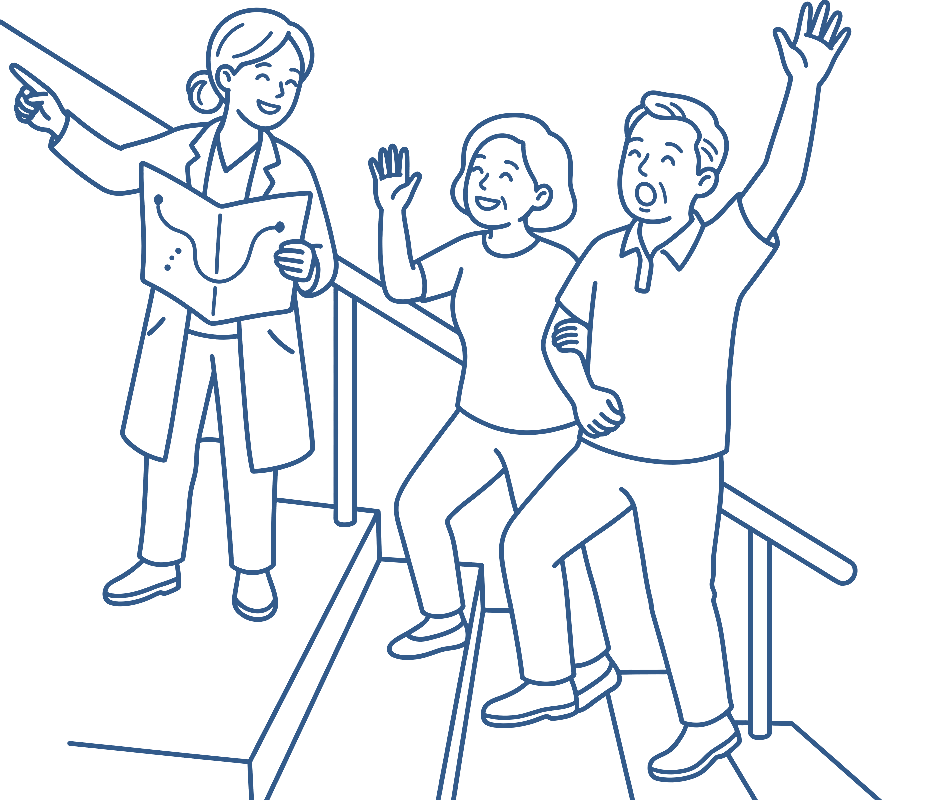
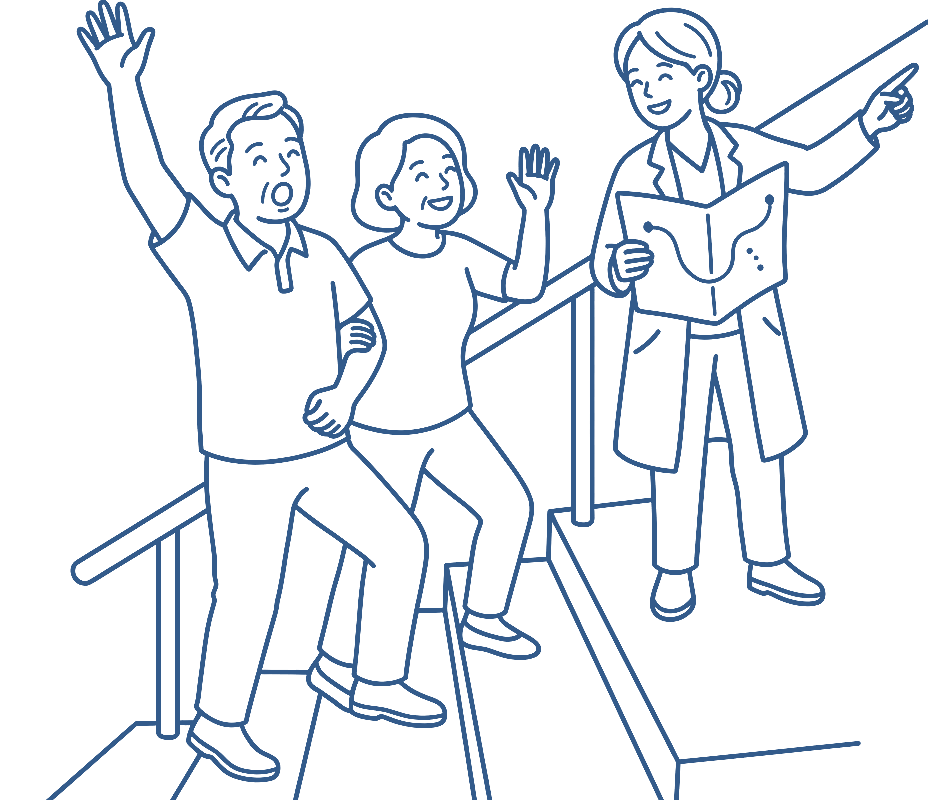
植牙線稿手機段定案：92%／0／+48／.121／不翻（七科第一個不翻的）；十二個寬度驗過 0 差

Changed region(s): [[0.0, 0.0, 1.0, 1.0], [0.9062, 0.9688, 0.9375, 1.0], [0.0625, 0.9688, 0.0938, 1.0]]

diff --git a/preview/topic-lineart-prosth/index.html b/preview/topic-lineart-prosth/index.html
@@ -4825,7 +4825,11 @@ body[data-topic] #topics { padding-top: 1rem; }
 }
 [data-topic="ortho"] .tp-intro > * { position: relative; z-index: 1; }
 
-/* 植牙・假牙重建（2026-08-25 —— **提案中，兩段都還是暫定值**）
+/* 植牙・假牙重建（2026-08-25 —— **手機那一段定案，≥721 那一段還是暫定**，同兒牙／矯正）
+   ⚠ 手機定案：**92% ／ right 0 ／ 出血 +48 ／ 濃度 .121 ／ 不翻**，使用者在自己手機上逐格挑的。
+   ⚠⚠ **這一科沒有翻轉**（七科裡第一個）—— 前五科都把人翻成朝版心裡面，
+     但這一張有階梯：不翻的時候「往右上走」和閱讀方向一致，翻過來反而是走回去。
+     提案頁那一輪特地加了「翻／不翻」的切換讓使用者在手機上比，他選了不翻。
    ⚠⚠ 這一科的柔墨 AA 上限是 **.097 ＝ 六科裡最緊的一支**（一般牙科 .100／牙周 .115／
      顯微根管 .107／兒牙 .152／矯正 .120），成因是 #335b8b 是六支套色裡最深的。
      手機那一段大概只能給到 .09~.10，先擺 .097 等使用者在自己手機上挑。
@@ -4837,8 +4841,9 @@ body[data-topic] #topics { padding-top: 1rem; }
 [data-topic="prosth"] .tp-intro { position: relative; }
 [data-topic="prosth"] .tp-intro::before {
   content: ""; position: absolute; right: var(--la-right, 0px); bottom: 0;
-  width: min(var(--la-pct, 76%), var(--la-w, 360px)); aspect-ratio: 928 / 800;
-  background-image: var(--la-img, url("../../assets/lineart-prosth.png")); background-repeat: no-repeat; background-size: contain; background-position: calc(50% + var(--la-bleed, 0px)) center;
+  width: min(var(--la-pct, 92%), var(--la-w, 360px)); aspect-ratio: 928 / 800;
+  background: url("../../assets/lineart-prosth.png") no-repeat; background-size: contain;
+  background-position: calc(50% + 48px) center;
   opacity: var(--la-op, .121); pointer-events: none; z-index: 0;
 }
 @media (min-width: 721px) {
@@ -7296,7 +7301,6 @@ body[data-topic] #topics { padding-top: 1rem; }
   <div class="pvrow" id="pvright"><b>往右</b></div>
   <div class="pvrow"><b>出血</b><button data-k="b" data-v="0">0</button><button data-k="b" data-v="16">+16</button><button data-k="b" data-v="32">+32</button><button data-k="b" data-v="48">+48</button><button data-k="b" data-v="64">+64</button></div>
   <div class="pvrow" id="pvop"><b>濃度</b></div>
-  <div class="pvrow"><b>翻轉</b><button data-k="f" data-v="1">翻（現在）</button><button data-k="f" data-v="0">不翻</button></div>
   <div class="pvout" id="pvout">量測中…</div>
 </div>
 <button class="pvmin" id="pvmin">收起</button>
@@ -7304,11 +7308,11 @@ body[data-topic] #topics { padding-top: 1rem; }
 (function(){
   var root=document.documentElement, bar=document.getElementById('pvbar'), out=document.getElementById('pvout');
   var wide=matchMedia('(min-width: 721px)');
-  var DEF={w:{narrow:76,wide:330},
+  var DEF={w:{narrow:92,wide:330},
            op:{narrow:.121,wide:.15}, r:{narrow:0,wide:0},
            b:{narrow:16,wide:16}, f:{narrow:1,wide:1}};
   var st={w:null,op:null,r:null,b:null,f:null,off:false};
-  var IMG={flip:'url("../../assets/lineart-prosth.png")',noflip:'url("noflip.png")'}, HASF=true;
+  var IMG={flip:'url("")',noflip:'url("noflip.png")'}, HASF=false;
   var qs=new URLSearchParams(location.search);
   ['w','op','r','b','f'].forEach(function(k){var v=qs.get(k); if(v&&/^-?[a-z0-9.]+$/.test(v)) st[k]=parseFloat(v);});
 

diff --git a/topics/endo/index.html b/topics/endo/index.html
@@ -4825,7 +4825,11 @@ body[data-topic] #topics { padding-top: 1rem; }
 }
 [data-topic="ortho"] .tp-intro > * { position: relative; z-index: 1; }
 
-/* 植牙・假牙重建（2026-08-25 —— **提案中，兩段都還是暫定值**）
+/* 植牙・假牙重建（2026-08-25 —— **手機那一段定案，≥721 那一段還是暫定**，同兒牙／矯正）
+   ⚠ 手機定案：**92% ／ right 0 ／ 出血 +48 ／ 濃度 .121 ／ 不翻**，使用者在自己手機上逐格挑的。
+   ⚠⚠ **這一科沒有翻轉**（七科裡第一個）—— 前五科都把人翻成朝版心裡面，
+     但這一張有階梯：不翻的時候「往右上走」和閱讀方向一致，翻過來反而是走回去。
+     提案頁那一輪特地加了「翻／不翻」的切換讓使用者在手機上比，他選了不翻。
    ⚠⚠ 這一科的柔墨 AA 上限是 **.097 ＝ 六科裡最緊的一支**（一般牙科 .100／牙周 .115／
      顯微根管 .107／兒牙 .152／矯正 .120），成因是 #335b8b 是六支套色裡最深的。
      手機那一段大概只能給到 .09~.10，先擺 .097 等使用者在自己手機上挑。
@@ -4837,8 +4841,9 @@ body[data-topic] #topics { padding-top: 1rem; }
 [data-topic="prosth"] .tp-intro { position: relative; }
 [data-topic="prosth"] .tp-intro::before {
   content: ""; position: absolute; right: 0px; bottom: 0;
-  width: min(76%, 360px); aspect-ratio: 928 / 800;
-  background: url("../../assets/lineart-prosth.png") center / contain no-repeat;
+  width: min(92%, 360px); aspect-ratio: 928 / 800;
+  background: url("../../assets/lineart-prosth.png") no-repeat; background-size: contain;
+  background-position: calc(50% + 48px) center;
   opacity: .121; pointer-events: none; z-index: 0;
 }
 @media (min-width: 721px) {

diff --git a/topics/general/index.html b/topics/general/index.html
@@ -4825,7 +4825,11 @@ body[data-topic] #topics { padding-top: 1rem; }
 }
 [data-topic="ortho"] .tp-intro > * { position: relative; z-index: 1; }
 
-/* 植牙・假牙重建（2026-08-25 —— **提案中，兩段都還是暫定值**）
+/* 植牙・假牙重建（2026-08-25 —— **手機那一段定案，≥721 那一段還是暫定**，同兒牙／矯正）
+   ⚠ 手機定案：**92% ／ right 0 ／ 出血 +48 ／ 濃度 .121 ／ 不翻**，使用者在自己手機上逐格挑的。
+   ⚠⚠ **這一科沒有翻轉**（七科裡第一個）—— 前五科都把人翻成朝版心裡面，
+     但這一張有階梯：不翻的時候「往右上走」和閱讀方向一致，翻過來反而是走回去。
+     提案頁那一輪特地加了「翻／不翻」的切換讓使用者在手機上比，他選了不翻。
    ⚠⚠ 這一科的柔墨 AA 上限是 **.097 ＝ 六科裡最緊的一支**（一般牙科 .100／牙周 .115／
      顯微根管 .107／兒牙 .152／矯正 .120），成因是 #335b8b 是六支套色裡最深的。
      手機那一段大概只能給到 .09~.10，先擺 .097 等使用者在自己手機上挑。
@@ -4837,8 +4841,9 @@ body[data-topic] #topics { padding-top: 1rem; }
 [data-topic="prosth"] .tp-intro { position: relative; }
 [data-topic="prosth"] .tp-intro::before {
   content: ""; position: absolute; right: 0px; bottom: 0;
-  width: min(76%, 360px); aspect-ratio: 928 / 800;
-  background: url("../../assets/lineart-prosth.png") center / contain no-repeat;
+  width: min(92%, 360px); aspect-ratio: 928 / 800;
+  background: url("../../assets/lineart-prosth.png") no-repeat; background-size: contain;
+  background-position: calc(50% + 48px) center;
   opacity: .121; pointer-events: none; z-index: 0;
 }
 @media (min-width: 721px) {

diff --git a/topics/kids/index.html b/topics/kids/index.html
@@ -4825,7 +4825,11 @@ body[data-topic] #topics { padding-top: 1rem; }
 }
 [data-topic="ortho"] .tp-intro > * { position: relative; z-index: 1; }
 
-/* 植牙・假牙重建（2026-08-25 —— **提案中，兩段都還是暫定值**）
+/* 植牙・假牙重建（2026-08-25 —— **手機那一段定案，≥721 那一段還是暫定**，同兒牙／矯正）
+   ⚠ 手機定案：**92% ／ right 0 ／ 出血 +48 ／ 濃度 .121 ／ 不翻**，使用者在自己手機上逐格挑的。
+   ⚠⚠ **這一科沒有翻轉**（七科裡第一個）—— 前五科都把人翻成朝版心裡面，
+     但這一張有階梯：不翻的時候「往右上走」和閱讀方向一致，翻過來反而是走回去。
+     提案頁那一輪特地加了「翻／不翻」的切換讓使用者在手機上比，他選了不翻。
    ⚠⚠ 這一科的柔墨 AA 上限是 **.097 ＝ 六科裡最緊的一支**（一般牙科 .100／牙周 .115／
      顯微根管 .107／兒牙 .152／矯正 .120），成因是 #335b8b 是六支套色裡最深的。
      手機那一段大概只能給到 .09~.10，先擺 .097 等使用者在自己手機上挑。
@@ -4837,8 +4841,9 @@ body[data-topic] #topics { padding-top: 1rem; }
 [data-topic="prosth"] .tp-intro { position: relative; }
 [data-topic="prosth"] .tp-intro::before {
   content: ""; position: absolute; right: 0px; bottom: 0;
-  width: min(76%, 360px); aspect-ratio: 928 / 800;
-  background: url("../../assets/lineart-prosth.png") center / contain no-repeat;
+  width: min(92%, 360px); aspect-ratio: 928 / 800;
+  background: url("../../assets/lineart-prosth.png") no-repeat; background-size: contain;
+  background-position: calc(50% + 48px) center;
   opacity: .121; pointer-events: none; z-index: 0;
 }
 @media (min-width: 721px) {

diff --git a/topics/ortho/index.html b/topics/ortho/index.html
@@ -4825,7 +4825,11 @@ body[data-topic] #topics { padding-top: 1rem; }
 }
 [data-topic="ortho"] .tp-intro > * { position: relative; z-index: 1; }
 
-/* 植牙・假牙重建（2026-08-25 —— **提案中，兩段都還是暫定值**）
+/* 植牙・假牙重建（2026-08-25 —— **手機那一段定案，≥721 那一段還是暫定**，同兒牙／矯正）
+   ⚠ 手機定案：**92% ／ right 0 ／ 出血 +48 ／ 濃度 .121 ／ 不翻**，使用者在自己手機上逐格挑的。
+   ⚠⚠ **這一科沒有翻轉**（七科裡第一個）—— 前五科都把人翻成朝版心裡面，
+     但這一張有階梯：不翻的時候「往右上走」和閱讀方向一致，翻過來反而是走回去。
+     提案頁那一輪特地加了「翻／不翻」的切換讓使用者在手機上比，他選了不翻。
    ⚠⚠ 這一科的柔墨 AA 上限是 **.097 ＝ 六科裡最緊的一支**（一般牙科 .100／牙周 .115／
      顯微根管 .107／兒牙 .152／矯正 .120），成因是 #335b8b 是六支套色裡最深的。
      手機那一段大概只能給到 .09~.10，先擺 .097 等使用者在自己手機上挑。
@@ -4837,8 +4841,9 @@ body[data-topic] #topics { padding-top: 1rem; }
 [data-topic="prosth"] .tp-intro { position: relative; }
 [data-topic="prosth"] .tp-intro::before {
   content: ""; position: absolute; right: 0px; bottom: 0;
-  width: min(76%, 360px); aspect-ratio: 928 / 800;
-  background: url("../../assets/lineart-prosth.png") center / contain no-repeat;
+  width: min(92%, 360px); aspect-ratio: 928 / 800;
+  background: url("../../assets/lineart-prosth.png") no-repeat; background-size: contain;
+  background-position: calc(50% + 48px) center;
   opacity: .121; pointer-events: none; z-index: 0;
 }
 @media (min-width: 721px) {

diff --git a/topics/perio/index.html b/topics/perio/index.html
@@ -4825,7 +4825,11 @@ body[data-topic] #topics { padding-top: 1rem; }
 }
 [data-topic="ortho"] .tp-intro > * { position: relative; z-index: 1; }
 
-/* 植牙・假牙重建（2026-08-25 —— **提案中，兩段都還是暫定值**）
+/* 植牙・假牙重建（2026-08-25 —— **手機那一段定案，≥721 那一段還是暫定**，同兒牙／矯正）
+   ⚠ 手機定案：**92% ／ right 0 ／ 出血 +48 ／ 濃度 .121 ／ 不翻**，使用者在自己手機上逐格挑的。
+   ⚠⚠ **這一科沒有翻轉**（七科裡第一個）—— 前五科都把人翻成朝版心裡面，
+     但這一張有階梯：不翻的時候「往右上走」和閱讀方向一致，翻過來反而是走回去。
+     提案頁那一輪特地加了「翻／不翻」的切換讓使用者在手機上比，他選了不翻。
    ⚠⚠ 這一科的柔墨 AA 上限是 **.097 ＝ 六科裡最緊的一支**（一般牙科 .100／牙周 .115／
      顯微根管 .107／兒牙 .152／矯正 .120），成因是 #335b8b 是六支套色裡最深的。
      手機那一段大概只能給到 .09~.10，先擺 .097 等使用者在自己手機上挑。
@@ -4837,8 +4841,9 @@ body[data-topic] #topics { padding-top: 1rem; }
 [data-topic="prosth"] .tp-intro { position: relative; }
 [data-topic="prosth"] .tp-intro::before {
   content: ""; position: absolute; right: 0px; bottom: 0;
-  width: min(76%, 360px); aspect-ratio: 928 / 800;
-  background: url("../../assets/lineart-prosth.png") center / contain no-repeat;
+  width: min(92%, 360px); aspect-ratio: 928 / 800;
+  background: url("../../assets/lineart-prosth.png") no-repeat; background-size: contain;
+  background-position: calc(50% + 48px) center;
   opacity: .121; pointer-events: none; z-index: 0;
 }
 @media (min-width: 721px) {

diff --git a/topics/prosth/index.html b/topics/prosth/index.html
@@ -4825,7 +4825,11 @@ body[data-topic] #topics { padding-top: 1rem; }
 }
 [data-topic="ortho"] .tp-intro > * { position: relative; z-index: 1; }
 
-/* 植牙・假牙重建（2026-08-25 —— **提案中，兩段都還是暫定值**）
+/* 植牙・假牙重建（2026-08-25 —— **手機那一段定案，≥721 那一段還是暫定**，同兒牙／矯正）
+   ⚠ 手機定案：**92% ／ right 0 ／ 出血 +48 ／ 濃度 .121 ／ 不翻**，使用者在自己手機上逐格挑的。
+   ⚠⚠ **這一科沒有翻轉**（七科裡第一個）—— 前五科都把人翻成朝版心裡面，
+     但這一張有階梯：不翻的時候「往右上走」和閱讀方向一致，翻過來反而是走回去。
+     提案頁那一輪特地加了「翻／不翻」的切換讓使用者在手機上比，他選了不翻。
    ⚠⚠ 這一科的柔墨 AA 上限是 **.097 ＝ 六科裡最緊的一支**（一般牙科 .100／牙周 .115／
      顯微根管 .107／兒牙 .152／矯正 .120），成因是 #335b8b 是六支套色裡最深的。
      手機那一段大概只能給到 .09~.10，先擺 .097 等使用者在自己手機上挑。
@@ -4837,8 +4841,9 @@ body[data-topic] #topics { padding-top: 1rem; }
 [data-topic="prosth"] .tp-intro { position: relative; }
 [data-topic="prosth"] .tp-intro::before {
   content: ""; position: absolute; right: 0px; bottom: 0;
-  width: min(76%, 360px); aspect-ratio: 928 / 800;
-  background: url("../../assets/lineart-prosth.png") center / contain no-repeat;
+  width: min(92%, 360px); aspect-ratio: 928 / 800;
+  background: url("../../assets/lineart-prosth.png") no-repeat; background-size: contain;
+  background-position: calc(50% + 48px) center;
   opacity: .121; pointer-events: none; z-index: 0;
 }
 @media (min-width: 721px) {

diff --git a/topics/surg/index.html b/topics/surg/index.html
@@ -4825,7 +4825,11 @@ body[data-topic] #topics { padding-top: 1rem; }
 }
 [data-topic="ortho"] .tp-intro > * { position: relative; z-index: 1; }
 
-/* 植牙・假牙重建（2026-08-25 —— **提案中，兩段都還是暫定值**）
+/* 植牙・假牙重建（2026-08-25 —— **手機那一段定案，≥721 那一段還是暫定**，同兒牙／矯正）
+   ⚠ 手機定案：**92% ／ right 0 ／ 出血 +48 ／ 濃度 .121 ／ 不翻**，使用者在自己手機上逐格挑的。
+   ⚠⚠ **這一科沒有翻轉**（七科裡第一個）—— 前五科都把人翻成朝版心裡面，
+     但這一張有階梯：不翻的時候「往右上走」和閱讀方向一致，翻過來反而是走回去。
+     提案頁那一輪特地加了「翻／不翻」的切換讓使用者在手機上比，他選了不翻。
    ⚠⚠ 這一科的柔墨 AA 上限是 **.097 ＝ 六科裡最緊的一支**（一般牙科 .100／牙周 .115／
      顯微根管 .107／兒牙 .152／矯正 .120），成因是 #335b8b 是六支套色裡最深的。
      手機那一段大概只能給到 .09~.10，先擺 .097 等使用者在自己手機上挑。
@@ -4837,8 +4841,9 @@ body[data-topic] #topics { padding-top: 1rem; }
 [data-topic="prosth"] .tp-intro { position: relative; }
 [data-topic="prosth"] .tp-intro::before {
   content: ""; position: absolute; right: 0px; bottom: 0;
-  width: min(76%, 360px); aspect-ratio: 928 / 800;
-  background: url("../../assets/lineart-prosth.png") center / contain no-repeat;
+  width: min(92%, 360px); aspect-ratio: 928 / 800;
+  background: url("../../assets/lineart-prosth.png") no-repeat; background-size: contain;
+  background-position: calc(50% + 48px) center;
   opacity: .121; pointer-events: none; z-index: 0;
 }
 @media (min-width: 721px) {

diff --git a/index.html b/index.html
@@ -5318,7 +5318,11 @@ body[data-topic] #topics { padding-top: 1rem; }
 }
 [data-topic="ortho"] .tp-intro > * { position: relative; z-index: 1; }
 
-/* 植牙・假牙重建（2026-08-25 —— **提案中，兩段都還是暫定值**）
+/* 植牙・假牙重建（2026-08-25 —— **手機那一段定案，≥721 那一段還是暫定**，同兒牙／矯正）
+   ⚠ 手機定案：**92% ／ right 0 ／ 出血 +48 ／ 濃度 .121 ／ 不翻**，使用者在自己手機上逐格挑的。
+   ⚠⚠ **這一科沒有翻轉**（七科裡第一個）—— 前五科都把人翻成朝版心裡面，
+     但這一張有階梯：不翻的時候「往右上走」和閱讀方向一致，翻過來反而是走回去。
+     提案頁那一輪特地加了「翻／不翻」的切換讓使用者在手機上比，他選了不翻。
    ⚠⚠ 這一科的柔墨 AA 上限是 **.097 ＝ 六科裡最緊的一支**（一般牙科 .100／牙周 .115／
      顯微根管 .107／兒牙 .152／矯正 .120），成因是 #335b8b 是六支套色裡最深的。
      手機那一段大概只能給到 .09~.10，先擺 .097 等使用者在自己手機上挑。
@@ -5330,8 +5334,9 @@ body[data-topic] #topics { padding-top: 1rem; }
 [data-topic="prosth"] .tp-intro { position: relative; }
 [data-topic="prosth"] .tp-intro::before {
   content: ""; position: absolute; right: 0px; bottom: 0;
-  width: min(76%, 360px); aspect-ratio: 928 / 800;
-  background: url("assets/lineart-prosth.png") center / contain no-repeat;
+  width: min(92%, 360px); aspect-ratio: 928 / 800;
+  background: url("assets/lineart-prosth.png") no-repeat; background-size: contain;
+  background-position: calc(50% + 48px) center;
   opacity: .121; pointer-events: none; z-index: 0;
 }
 @media (min-width: 721px) {

diff --git a/drafts/lineart-prosth-prompt.md b/drafts/lineart-prosth-prompt.md
@@ -142,3 +142,27 @@ a lot of white space.
 ・模板寫了 `No eyebrow detail`，但模型**還是畫了眉毛而且是下垂的**，一皺就嚴肅。
 → 第二版把表情寫成**幾何**（眼睛是兩道上彎的弧、嘴是上揚的弧），
 並把「**任何人都不要畫眉毛**」提到 FACES 段的最前面點名。
+
+## ✅ 手機那一段定案（2026-08-25）
+
+**92% ／ right 0 ／ 出血 +48 ／ 濃度 .121 ／ 不翻**，使用者在自己手機上逐格挑的。
+
+⚠⚠ **這一科沒有翻轉 —— 七科裡第一個。** 前五科都把人翻成朝版心裡面（人朝外會把視線
+帶出版面），但**這一張有階梯**：不翻的時候「往右上走」和閱讀方向一致，翻過來反而是走回去。
+提案頁那一輪特地加了「**翻／不翻**」的切換（產生器通用：`drafts/lineart-<spec>-noflip.png`
+存在就出現那把尺），使用者比過之後選不翻。
+⚠ 切換的是**兩張真的圖檔**，不是 CSS 的 `scaleX(-1)` —— 兒牙那次踩過：用 CSS 翻，
+「畫面上的往右」在未翻轉的座標裡變成往左，**出血與位置那兩把尺會整個反過來跑**。
+
+⚠ 濃度停在 .121 而不是算出來的 AA 上限 .097，是因為實測**柔墨 0 行被壓到**
+（只壓到深墨 8 行，對比 10.03）—— 這一格不受 AA 上限限制。
+
+**驗收（十二個寬度，含斷點兩側 720／721）**：介紹區高度「有圖／關掉圖」**逐格 0.0 差**、
+無水平捲動、圖每一格都收在介紹區裡（320 上 269×232，430~720 上 360×310，≥721 上 330×284）。
+
+## ⏳ ≥721 那一段還在提案中
+
+`preview/topic-lineart-prosth/`（暫定 330px／.15）。⚠ **要在 iPad 上開**才會看到那一段的尺
+（產生器依斷點換：手機調百分比、≥721 調 px，濃度也分兩組）。
+⚠ 分段是 **721 不是 834** —— 牙周那次的教訓：使用者是在 iPad mini 直放 744 上定的，
+用 834 那台會被歸到手機段。
